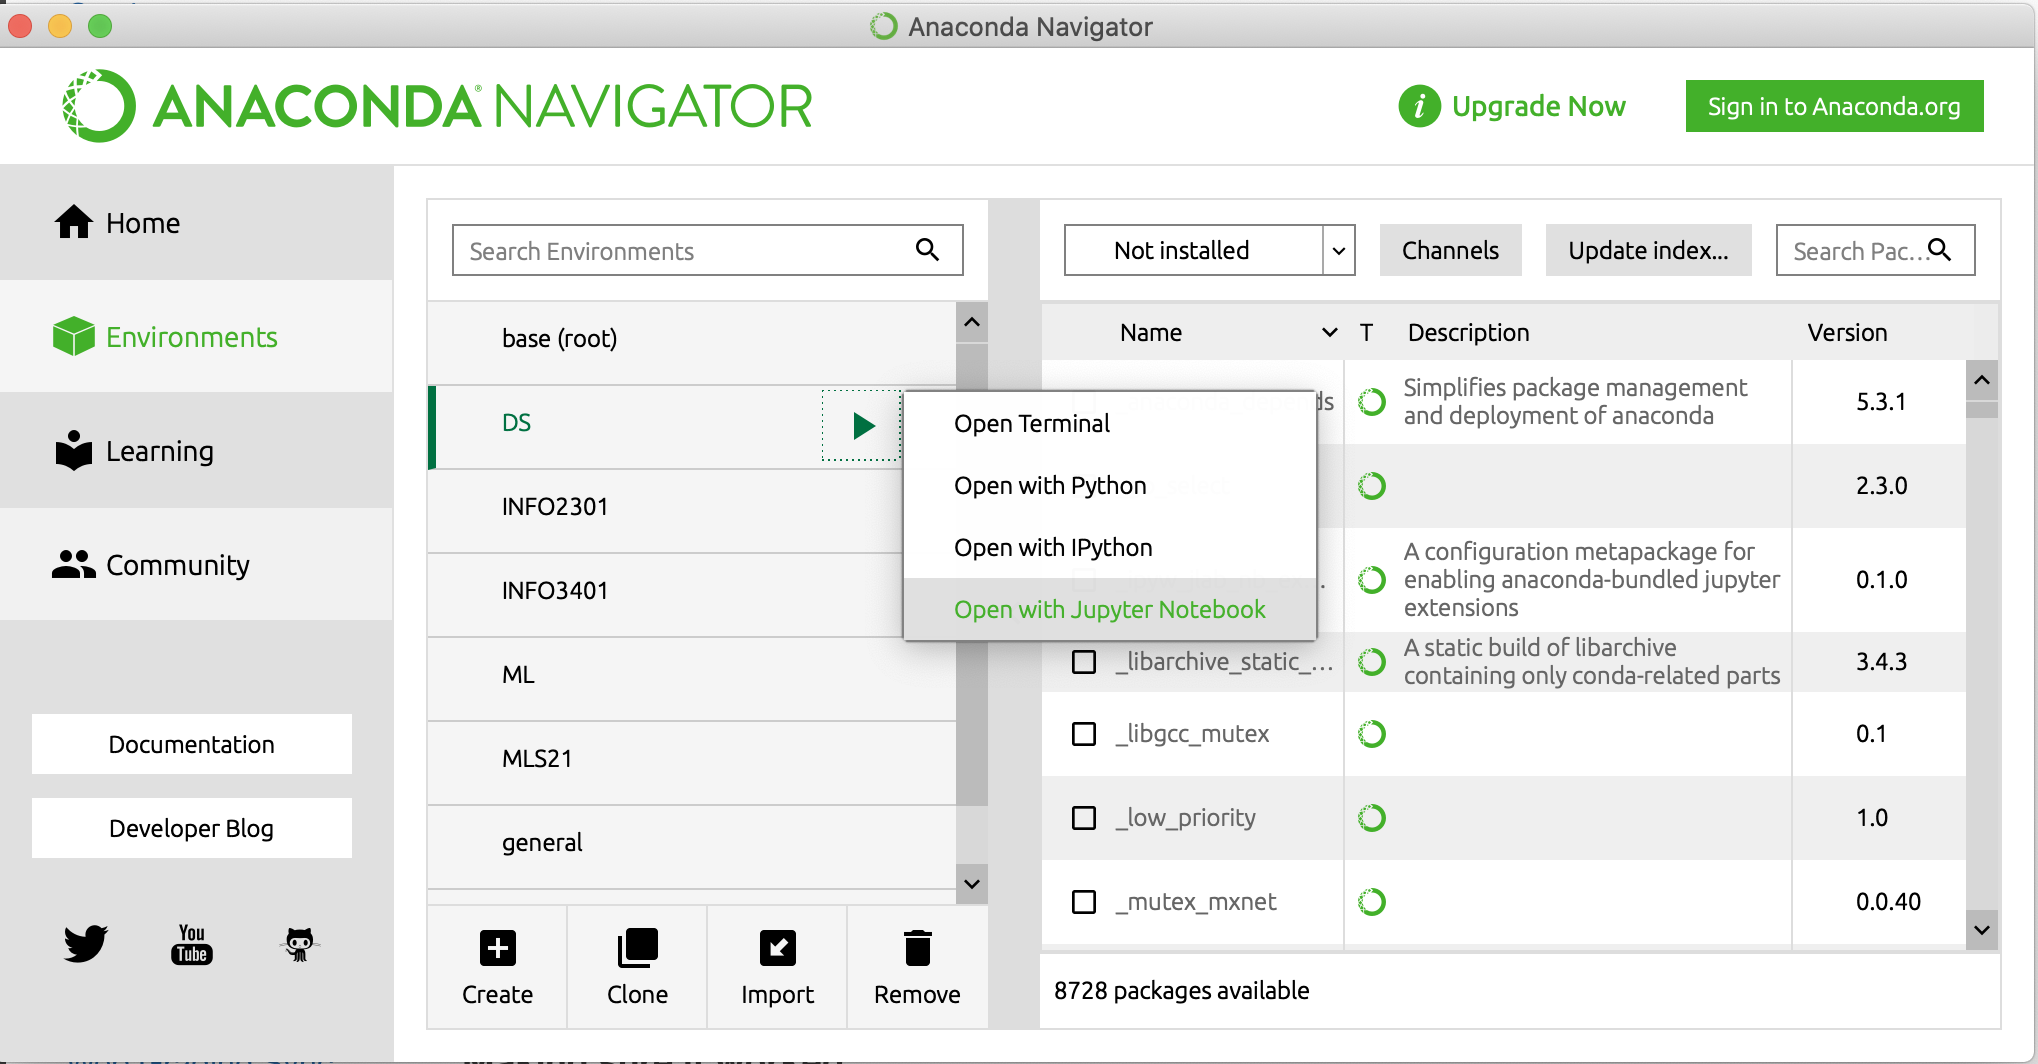
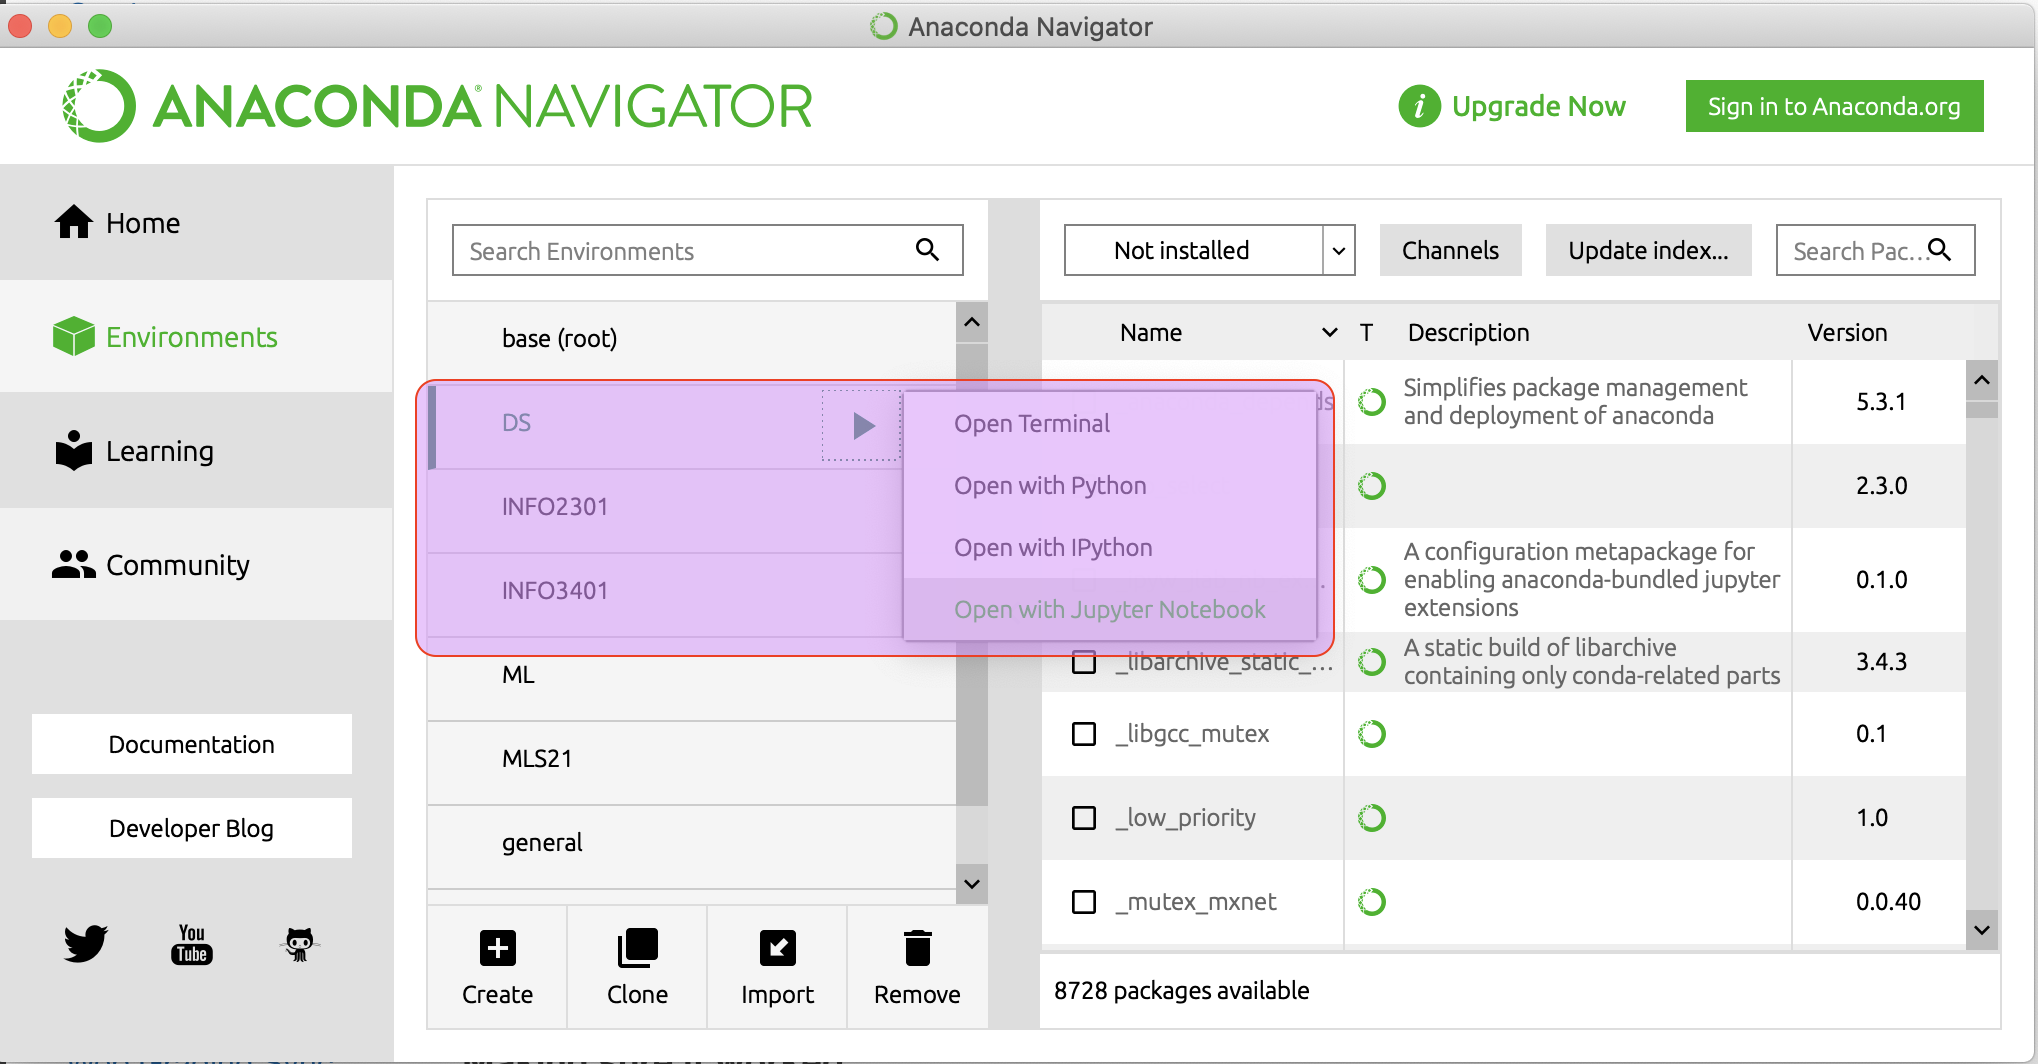
just backup

Changed region(s): [[0.1855, 0.3412, 0.6801, 0.6203]]

diff --git a/setting_up_a_conda_environment.md b/setting_up_a_conda_environment.md
@@ -33,7 +33,7 @@ This step is very important. You will have to install jupyterlab to access Jupty
 This is how to install Jupyter lab
 ![photoJup](https://github.com/cuinfoscience/Docs/blob/main/images/setting_up_a_conda_environment/create_env4.png?raw=true)
 
-This is how to open the notebook
+Click the triangle beside the environment name and select "Open with Jupyter Notebook" to open the notebook
 ![photoJup2](https://github.com/cuinfoscience/Docs/blob/main/images/setting_up_a_conda_environment/create_env6.png?raw=true)
 
 **Step 6: Checking it worked**
